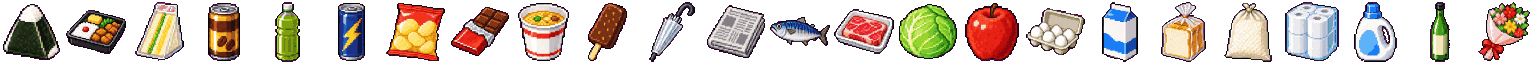
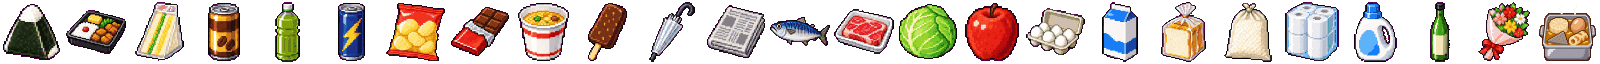
konbini-empire: shop fittings drawn in the store camera's own view, so tills face their clerks and machines sit square to the counter and facade
The till, coffee machine, hot-snack case, oden pot, ATM, vending machine, gacha row and bench were front-on art on camera-facing billboards, so each read turned 45 degrees off the counter or wall behind it. They are now art/props.png, painted by Codex over box blockouts rendered from the store camera, standing on billboards that undo the 30 degree tilt and slide toward the camera so the floor never clips them.

Also from the art review: the counter drops to elbow height with the clerks at their tills; the neon sign moves from mid-air over the cut-away front to the back wall's top; the back wall shows its fridge bank instead of a street view; the counter lines become their own stations instead of icons over blank boxes; oden gets its own icon in place of an egg carton; the store cat is a cat rather than a second maneki-neko; the delivery bike is a scooter rather than the truck icon; the post box, bicycles, planter and bus-stop sign come up to real size; magazine racks stand on a low plinth; stock icons rest on their fixtures; people standing still face the shelf, till or job they are at and stop walking in place; groups through the door walk abreast; the mascot's shadow is at its feet.

diff --git a/games/konbini-empire/README.md b/games/konbini-empire/README.md
@@ -47,7 +47,7 @@ It's drawn like a city builder:
 
 Each store is played on its own street, carved into the city on its lot:
 
-- your shop as a cutaway, with a till on the counter, shelf boards and glass-door fridges faced up with packs and bottles in each product's colors that thin out as its stock runs down, and potted plants and a sandwich board at the door; the part of the unit you haven't knocked through yet stands vacant beside it, shutter down under a bare fascia with a to-let notice on it, its roof a weathered membrane with an old water tank, two AC units and a vent stack; a car park in speckled asphalt beside it, kerbed and lined into bays with wheel stops, a parked car, a hatched bicycle strip along your wall, an arrow in from the street and a low planter at the back, with a pole sign in your stripes, its face a roundel and "24" for open all hours, that stays lit after dark; the shopfronts between it and the rival keep to one floor so they never hide it;
+- your shop as a cutaway: tills on an elbow-high counter with their keys and drawers to the clerks, and the counter lines as their own stations on it (a coffee machine, a heated hot-snack case, an oden pot), each greyed when it sells out; shelf boards and glass-door fridges faced up with packs and bottles in each product's colors that thin out as its stock runs down; magazine racks on a low plinth, a lidded ice-cream freezer, an ATM in the front corner facing the door, a neon sign on the back wall's top, and potted plants and a sandwich board at the door; a vending machine and a gacha row stand flush to the facade facing the street, with a bench along the shopfront and a courier's scooter in the car park; the part of the unit you haven't knocked through yet stands vacant beside it, shutter down under a bare fascia with a to-let notice on it, its roof a weathered membrane with an old water tank, two AC units and a vent stack; a car park in speckled asphalt beside it, kerbed and lined into bays with wheel stops, a parked car, a hatched bicycle strip along your wall, an arrow in from the street and a low planter at the back, with a pole sign in your stripes, its face a roundel and "24" for open all hours, that stays lit after dark; the shopfronts between it and the rival keep to one floor so they never hide it;
 - the rival's shop along the street: its shelves behind mullioned glass, a fascia in the chain's stripes, and a roof inside a parapet with a stair hatch, a walkway, air-conditioning units on plinths piped into one trunk, and skylights that glow after dark, with its name and a bar of its takings floating over it on a cream plate;
 - neighbours in that district's own building style, the shotengai ones with a shopfront under a scalloped awning: stocked shelves behind mullioned glass and a glazed door, every one lit after dark;
 - a crossing whose lights the pedestrians wait for, each a Japanese walk signal with a red standing figure over a green walking one that glows after dark (where a side road meets it, its light stands on that road's corner), speckled asphalt with manhole covers and white edge lines, sidewalks of grey interlocking pavers laid in running bond (the city's own sidewalks too), zebra crossings over each side road, yellow tactile paving down both sidewalks, utility poles with sagging wires along the far side, and tall street lamps whose arms reach out over the road, their heads lighting up after dark;
@@ -117,4 +117,4 @@ A bot then plays eight days on two seeds, asserting invariants every step and th
 - `main.gd` holds the HUD, the cards and the real-time loop.
 - `audio.gd` plays the effects and the time-of-day music on their own buses.
 
-**Art:** sprites and backgrounds were generated by Codex image_gen on a magenta key, then cut and downsampled into `art/`. Building facades and shop fittings are drawn in code. Sound effects and music were generated with ElevenLabs (Sound Effects and Eleven Music) from text prompts. Fonts: Nunito, with Noto Sans and a three-glyph subset of Noto Sans Math (★ ♪ ▾) as fallbacks, so the web build needs no system fonts (all SIL Open Font License; Nunito's licence is in `fonts/OFL-Nunito.txt`).
+**Art:** sprites and backgrounds were generated by Codex image_gen on a magenta key, then cut and downsampled into `art/`. Building facades and shop fittings are drawn in code. Fittings with a front (the till, coffee machine, hot-snack case, oden pot, ATM, vending machine, gacha row and bench) are in `art/props.png`, drawn in the store camera's own 2:1 view: each was blocked out in boxes at real size and rendered from that camera, then Codex painted over the blockout, so the art lands exactly where the boxes would. They stand on billboards scaled up by 1/cos 30° (the art already is the tilted view) and slid toward the camera along its line of sight, which keeps their place on screen while their lower edge clears the floor. Front-on art of a boxy object on a billboard reads turned 45° off the counter or wall behind it, so new fittings with a front get the same treatment. People, trees, round things and icons stay front-on billboards. Sound effects and music were generated with ElevenLabs (Sound Effects and Eleven Music) from text prompts. Fonts: Nunito, with Noto Sans and a three-glyph subset of Noto Sans Math (★ ♪ ▾) as fallbacks, so the web build needs no system fonts (all SIL Open Font License; Nunito's licence is in `fonts/OFL-Nunito.txt`).
